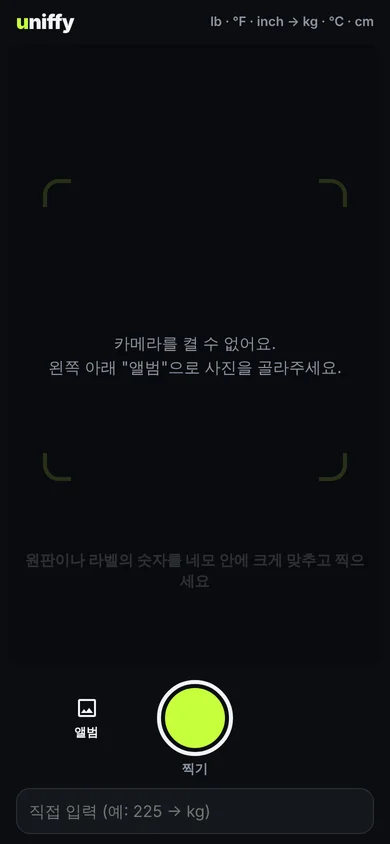
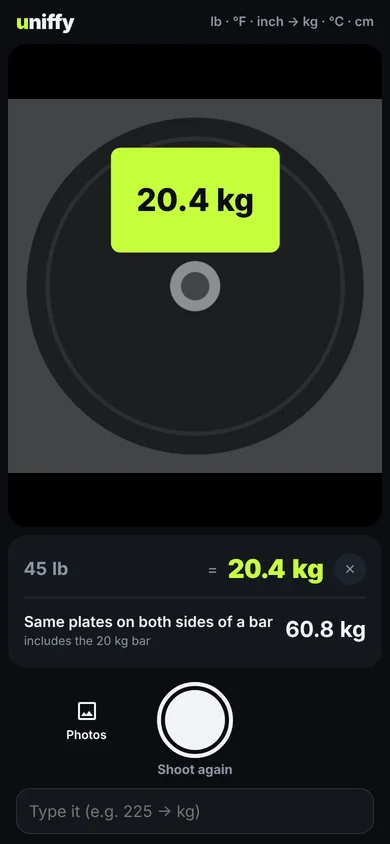
Use an English uniffy screenshot that shows a real conversion
Claude-Session: https://claude.ai/code/session_01LxcXJGsJB4zhHitaSjy4pv

diff --git a/index.html b/index.html
@@ -261,7 +261,7 @@ a:focus-visible { outline: 2px solid var(--pen); outline-offset: 3px; border-rad
       </div>
     </div>
     <figure class="shot">
-      <span class="frame phone"><img src="img/uniffy.webp" width="390" height="844" alt="The uniffy camera screen, with a guide box in the middle and a shutter button below."></span>
+      <span class="frame phone"><img src="img/uniffy.webp" width="390" height="844" alt="uniffy after reading a 45 lb plate: a 20.4 kg tag over the number, and 60.8 kg for a loaded barbell."></span>
       <figcaption class="note">how many kg is a 45 lb plate again?</figcaption>
     </figure>
   </section>
